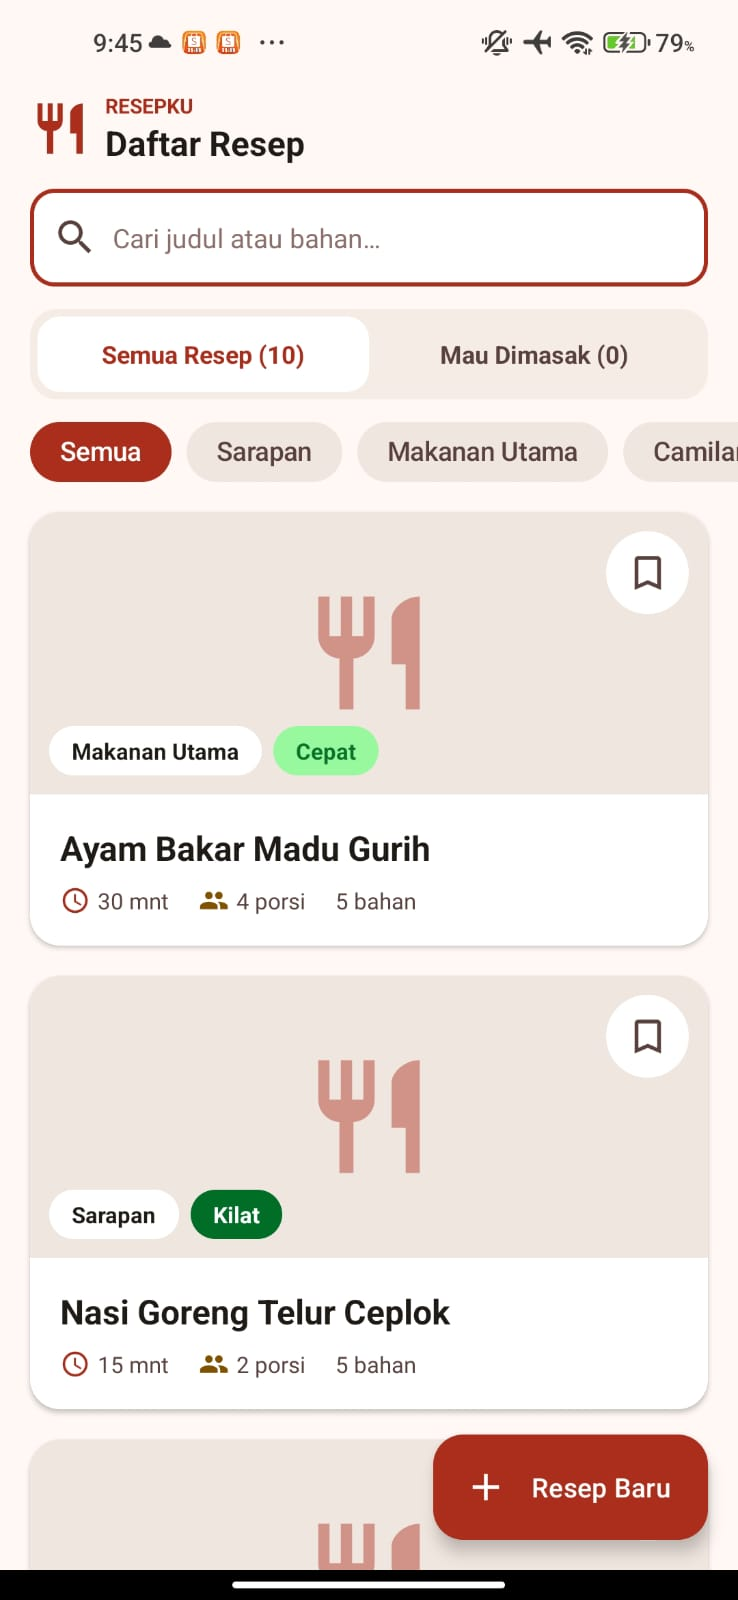
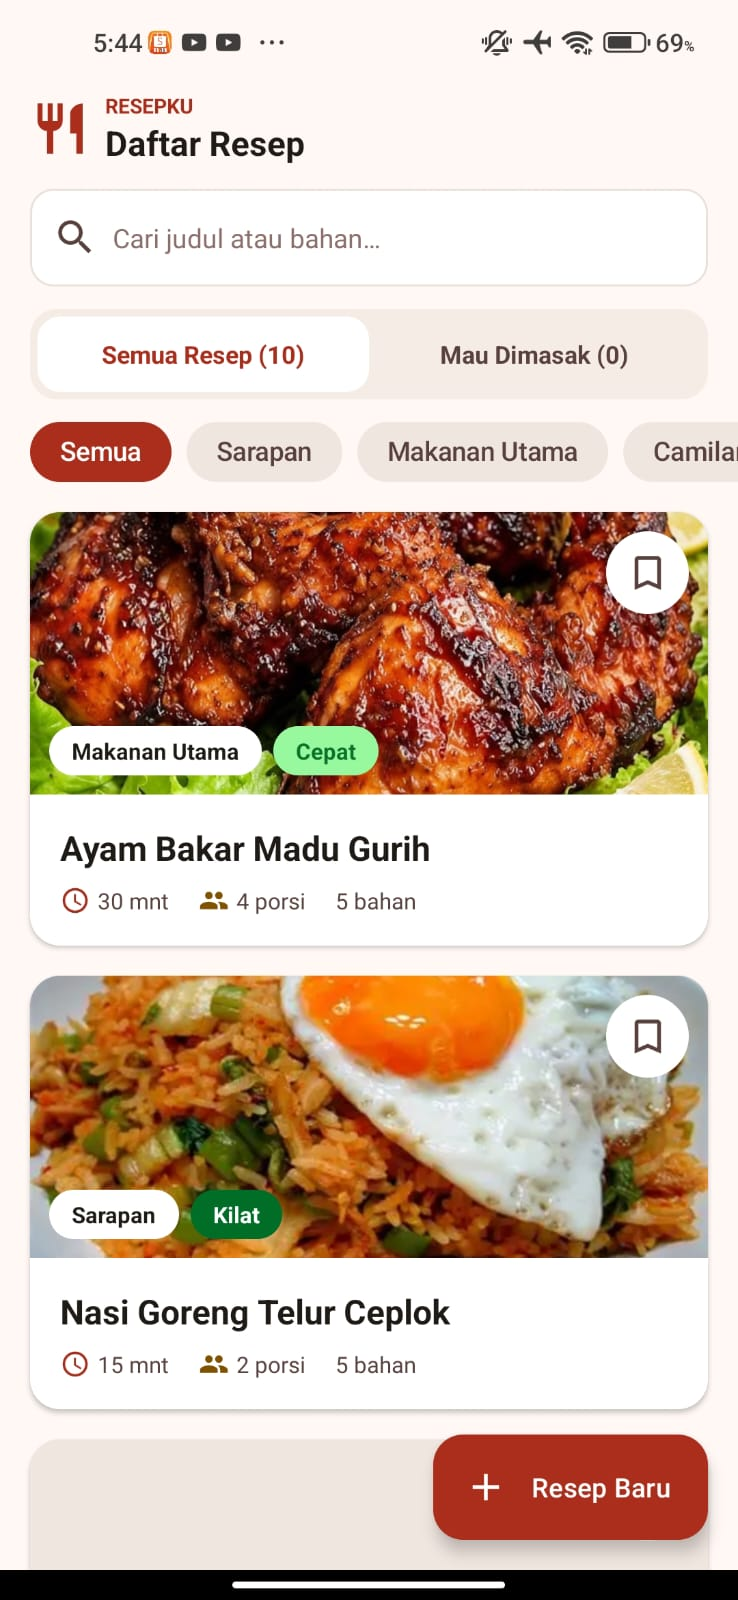
changes

diff --git a/app/src/main/java/com/resepku/app/ui/FotoResep.kt b/app/src/main/java/com/resepku/app/ui/FotoResep.kt
@@ -15,21 +15,20 @@ object FotoResep {
     private val cache = ConcurrentHashMap<String, android.graphics.Bitmap>()
 
     private val foto = mapOf(
-        "Ayam Bakar Madu Gurih" to "14098784",
-        "Nasi Goreng Telur Ceplok" to "8570300",
-        "Bubur Ayam Kampung" to "36947004",
-        "Sayur Asem Segar" to "1640777",
-        "Soto Ayam Lamongan" to "12676932",
-        "Tempe Orek Pedas Manis" to "37090664",
-        "Pisang Goreng Renyah" to "37048319",
-        "Bakwan Sayur" to "1640777",
-        "Es Teh Lemon" to "34486580",
-        "Wedang Jahe Hangat" to "5946974"
+        "Ayam Bakar Madu Gurih" to "https://i.pinimg.com/736x/3e/97/4d/3e974d9b34bb395bbd9ac7af50a9ec41.jpg",
+        "Nasi Goreng Telur Ceplok" to "https://tse3.mm.bing.net/th/id/OIP.gHIkiggHli3gfsnFsrNydAHaEo?r=0&rs=1&pid=ImgDetMain&o=7&rm=3",
+        "Bubur Ayam Kmpung" to "https://i.pinimg.com/736x/84/fc/b0/84fcb0f18a713f2c9d3e8407ffcc7a01.jpg",
+        "Sayur Asem Segar" to "https://i.pinimg.com/736x/8e/15/9c/8e159cdab08cc37586bb23cc92b7f3a3.jpg",
+        "Soto Ayam Lamongan" to "https://i.pinimg.com/736x/03/1d/0c/031d0ce8b03e9d7427c60e76e79584ac.jpg",
+        "Tempe Orek Pedas Manis" to "https://i.pinimg.com/1200x/65/77/ee/6577ee8805a9ce980ecbcf614bb83617.jpg",
+        "Pisang Goreng Renyah" to "https://i.pinimg.com/736x/a9/ee/b1/a9eeb17125f76fe28397bdb5073a9026.jpg",
+        "Bakwan Sayur" to "https://i.pinimg.com/736x/7f/e2/b5/7fe2b599a836b5e1e58c10f43584627d.jpg",
+        "Es Teh Lemon" to "https://i.pinimg.com/736x/e0/20/09/e02009f4ddd985f6c59f67939938f8c9.jpg",
+        "Wedang Jahe Hangat" to "https://i.pinimg.com/1200x/b2/cc/a4/b2cca40e8000e779e70d5f4f9c49f9b7.jpg",
     )
 
     fun tampilkan(view: ImageView, resep: Resep) {
-        val idFoto = foto[resep.judul] ?: "8570300"
-        val url = "https://images.pexels.com/photos/$idFoto/pexels-photo-$idFoto.jpeg?auto=compress&cs=tinysrgb&w=1000"
+        val url = foto[resep.judul] ?: return
         view.setTag(R.id.tag_url_foto, url)
         view.setImageDrawable(null)
         cache[url]?.let {

diff --git a/README.md b/README.md
@@ -90,10 +90,15 @@ Hasilnya
 Berikut adalah tampilan dari aplikasi:
 
 <p align="center">
-  <img src="Home.jpeg" alt="Tampilan Home" width="220">
-  <img src="Resep%201.jpeg" alt="Tampilan Resep 1" width="220">
-  <img src="Resep%202.jpeg" alt="Tampilan Resep 2" width="220">
-  <img src="Resep%203.jpeg" alt="Tampilan Resep 3" width="220">
+  <img src="Home.jpeg" alt="Home" width="220">
+  <img src="Home_2.jpeg" alt="Home 2" width="220">
+  <img src="Resep_1.jpeg" alt="Resep 1" width="220">
+  <img src="Resep_2.jpeg" alt="Resep 2" width="220">
+  <img src="Langkah_Memasak.jpeg" alt="Langkah Memasak" width="220">
+  <img src="Kalkulasi_porsi.jpeg" alt="Kalkulasi Porsi" width="220">
+  <img src="Menu_yang_mau_di_masak.jpeg" alt="Menu yang Mau Dimasak" width="220">
+  <img src="Tambah_resep.jpeg" alt="Tambah Resep" width="220">
+  <img src="Tambah_resep_2.jpeg" alt="Tambah Resep 2" width="220">
 </p>
 
 ---
